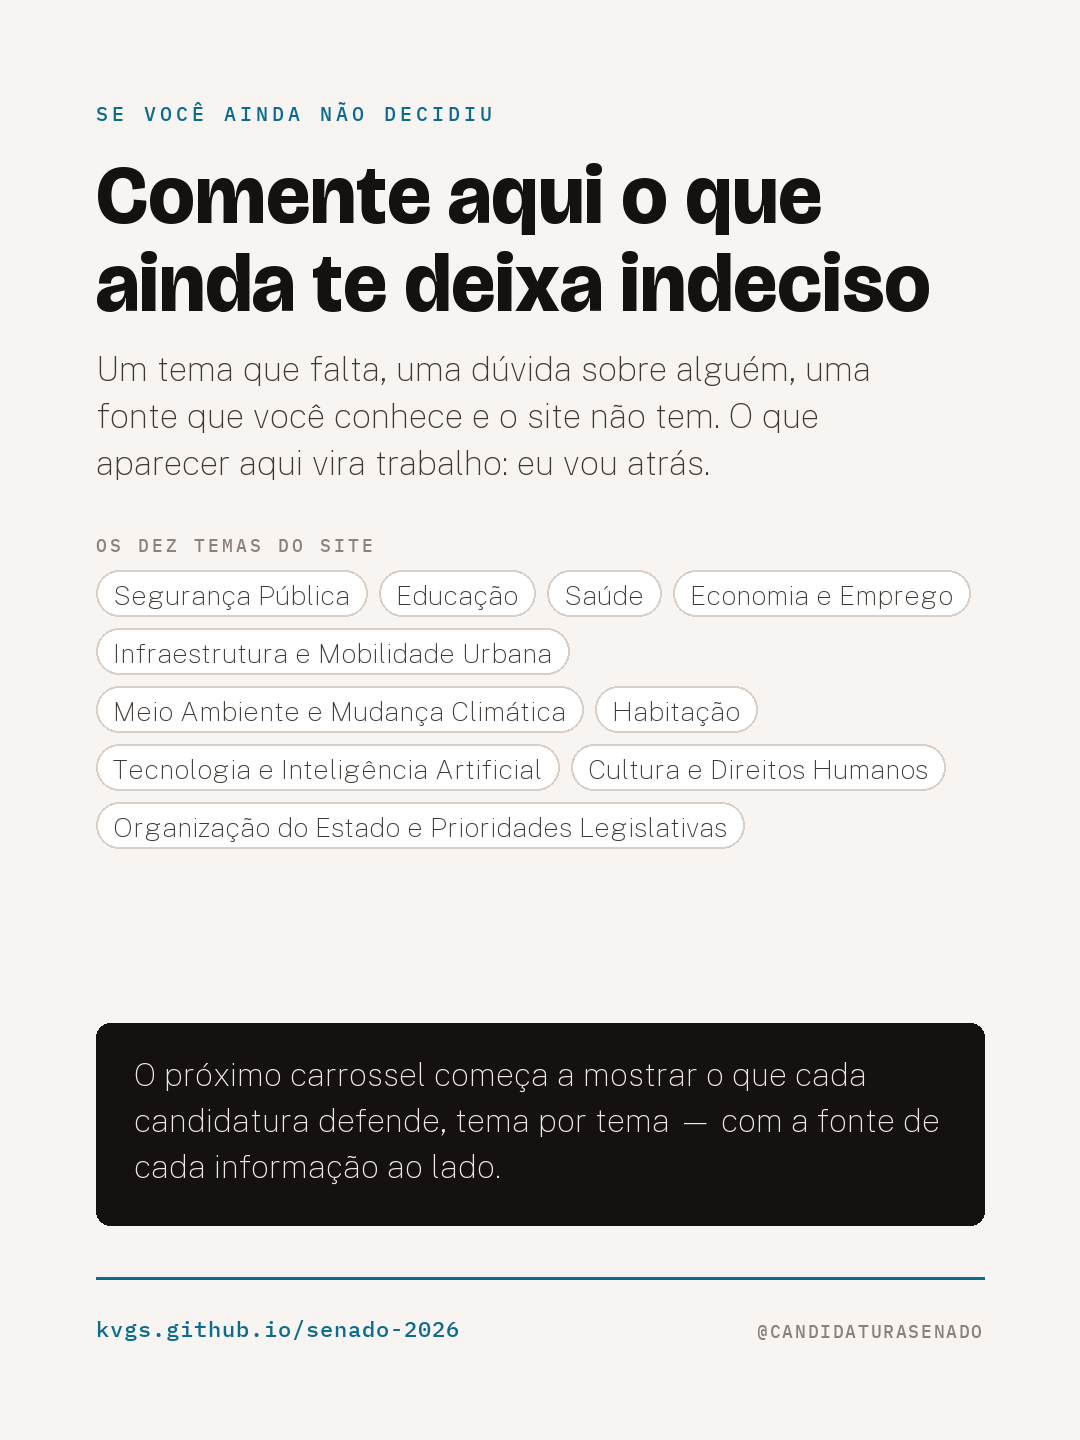
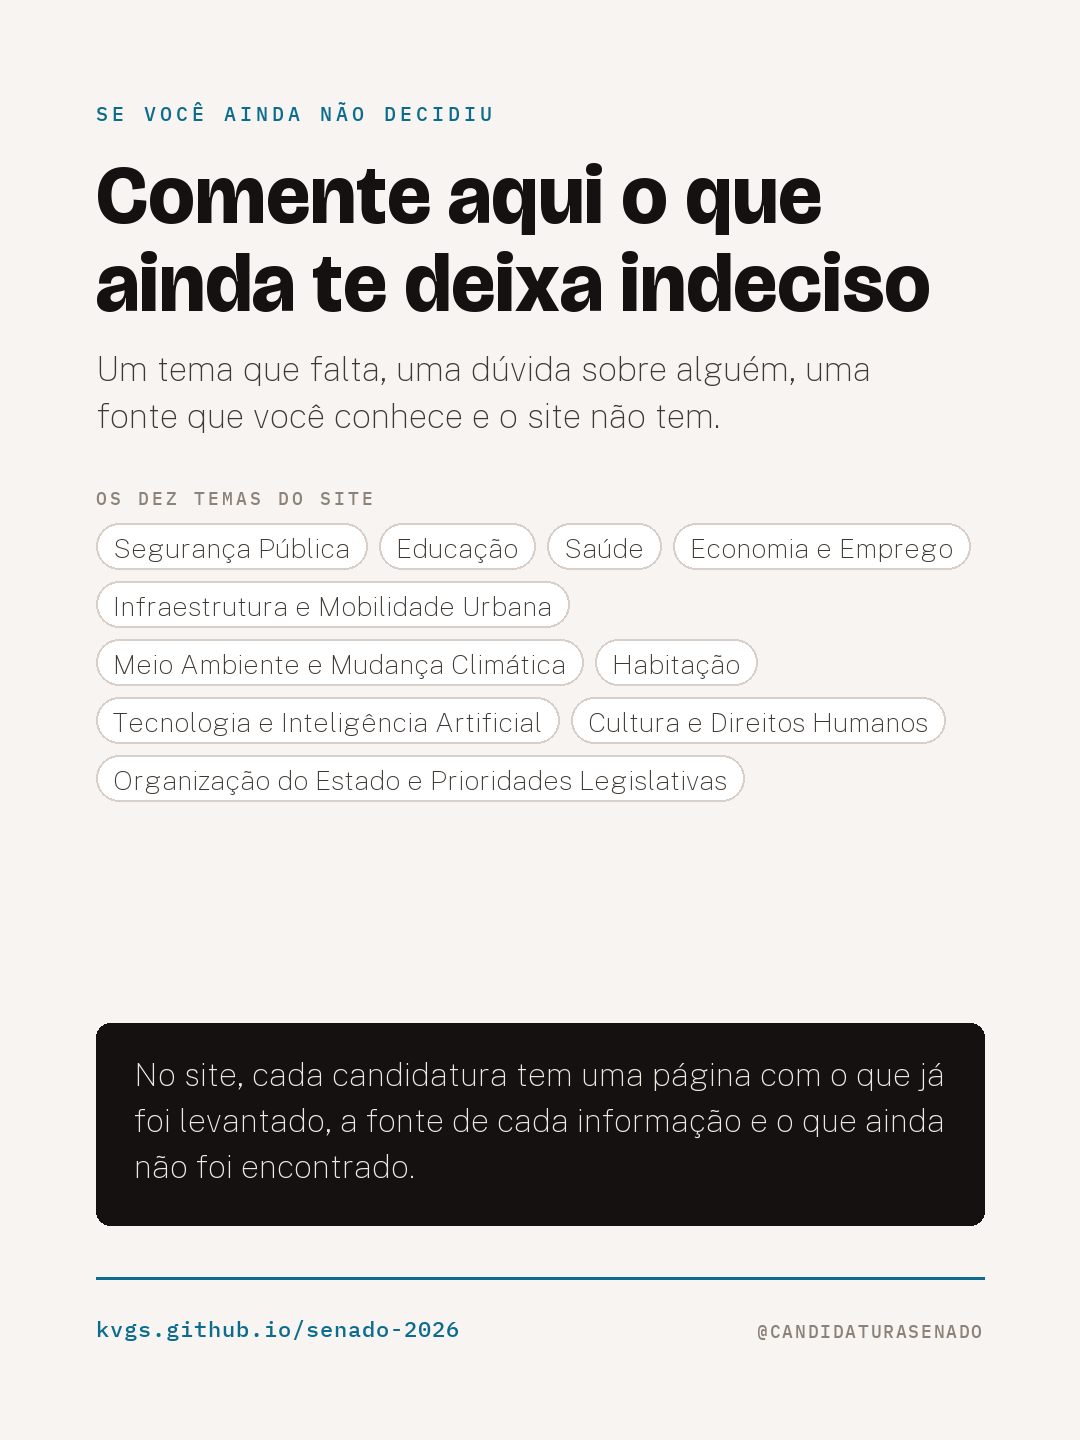
Tira do ultimo slide duas promessas que eu nao tinha o direito de fazer
O slide do convite dizia "o que aparecer aqui vira trabalho: eu vou atras" e
anunciava o proximo carrossel. Sao duas coisas diferentes, e as duas erradas:

A PRIMEIRA COMPROMETIA A ATENDER PEDIDO DE COMENTARIO. Convidar alguem a dizer o
que sente falta nao obriga ninguem a ir buscar. E quem responde ao comentario e
uma pessoa, nao o gerador de artes — prometer trabalho no lugar de outra pessoa e
pior do que nao prometer nada.

A SEGUNDA ANUNCIAVA PAUTA FUTURA. Calendario anunciado vira divida: se o proximo
post for outro, ou nao vier, a arte publicada continua cobrando.

No lugar das duas, a caixa aponta para o que o site JA tem: "cada candidatura
tem uma pagina com o que ja foi levantado, a fonte de cada informacao e o que
ainda nao foi encontrado." Presente do indicativo, e verificavel hoje.

O convite em si fica: "comente aqui o que ainda te deixa indeciso" nao promete
nada, e continua sendo a frase que a curadoria escolheu.

Corrigido nos dois lugares — na arte e na legenda — e a nota de producao registra
o que saiu, para nao voltar por distracao no proximo carrossel.

diff --git a/gerar_artes_regiao.py b/gerar_artes_regiao.py
@@ -286,8 +286,7 @@ def arte_comente(d: dict, i: int):
             f("display", 82), TINTA, entre=1.08, larg=890)
     t.espaco(26)
     t.texto("Um tema que falta, uma dúvida sobre alguém, uma fonte que você "
-            "conhece e o site não tem. O que aparecer aqui vira trabalho: "
-            "eu vou atrás.",
+            "conhece e o site não tem.",
             f("corpo", 34), TINTA2, entre=1.4, larg=860)
 
     t.espaco(44)
@@ -307,8 +306,8 @@ def arte_comente(d: dict, i: int):
 
     base = t.base_do_rodape()
     fc = f("corpo", 32)
-    frase = ("O próximo carrossel começa a mostrar o que cada candidatura "
-             "defende, tema por tema — com a fonte de cada informação ao lado.")
+    frase = ("No site, cada candidatura tem uma página com o que já foi levantado, "
+             "a fonte de cada informação e o que ainda não foi encontrado.")
     linhas = t.quebra(frase, fc, 830)
     alto = 32 + len(linhas) * int(fc.size * 1.45) + 32
     t.y = base - 52 - alto

diff --git a/artes-instagram/5-norte-quem-sao/LEGENDA.md b/artes-instagram/5-norte-quem-sao/LEGENDA.md
@@ -16,8 +16,7 @@ São 7 estados, 74 candidaturas — e este ano você vota em duas.
 Deslize e veja todas: foto, número de urna, nome e o @ do Instagram, estado por estado. 👉
 
 **Se você ainda não decidiu, comente aqui o que te deixa indeciso.** Um tema que
-falta, uma dúvida sobre alguém, uma fonte que você conhece e o site não tem. O
-que aparecer nos comentários vira trabalho — eu vou atrás.
+falta, uma dúvida sobre alguém, uma fonte que você conhece e o site não tem.
 
 Duas coisas sobre como isto é feito:
 
@@ -32,10 +31,10 @@ o eleitor escrever para um estranho.
 candidatura não declarou um Instagram utilizável ao TSE. Não é que não
 procuramos: é que não há o que buscar na fonte oficial.
 
-No próximo carrossel começa a outra metade: **o que cada uma defende**, tema por
-tema, com a fonte de cada informação ao lado.
+No site, cada candidatura tem uma página com **o que já foi levantado**, a fonte
+de cada informação e o que ainda não foi encontrado.
 
-🔗 Tudo está em kvgs.github.io/senado-2026 — dados abertos, código público.
+🔗 kvgs.github.io/senado-2026 — dados abertos, código público.
 
 #eleições2026 #senado #norte #acre #amapá #amazonas #pará #rondônia #roraima
 #tocantins #dadosabertos #votoconsciente #transparência #política #brasil
@@ -63,11 +62,21 @@ tema, com a fonte de cada informação ao lado.
   instagram.com declarada ao TSE, nenhum é repetido entre candidaturas e nenhum
   é página de partido.
 
-## Para os próximos posts
+## Nada de promessa
 
-Trocar `--regiao` no comando gera as outras quatro. Ao adaptar a legenda, os
-números mudam: Nordeste 103 em 9 estados · Sudeste 59 em 4 · Centro-Oeste 44 em
-4 · Sul 35 em 3.
+Nem a arte nem a legenda anunciam o próximo post, e nenhuma das duas diz que o
+que aparecer nos comentários será atendido. Convidar não obriga a nada, e
+calendário anunciado vira dívida.
 
-Quando chegar o carrossel de propostas, decidir antes o que fazer com as
+O que estava escrito antes e saiu: "o que aparecer nos comentários vira trabalho
+— eu vou atrás" e "no próximo carrossel começa a outra metade". No lugar, a
+caixa aponta para o que o site JA tem hoje.
+
+## Para uso interno
+
+Trocar `--regiao` no comando gera as outras quatro regiões. Ao adaptar a
+legenda, os números mudam: Nordeste 103 em 9 estados · Sudeste 59 em 4 ·
+Centro-Oeste 44 em 4 · Sul 35 em 3.
+
+Se um dia houver um carrossel de propostas, decidir antes o que fazer com as
 candidaturas que ainda não têm nada no acervo — no Norte são 12 das 74.
